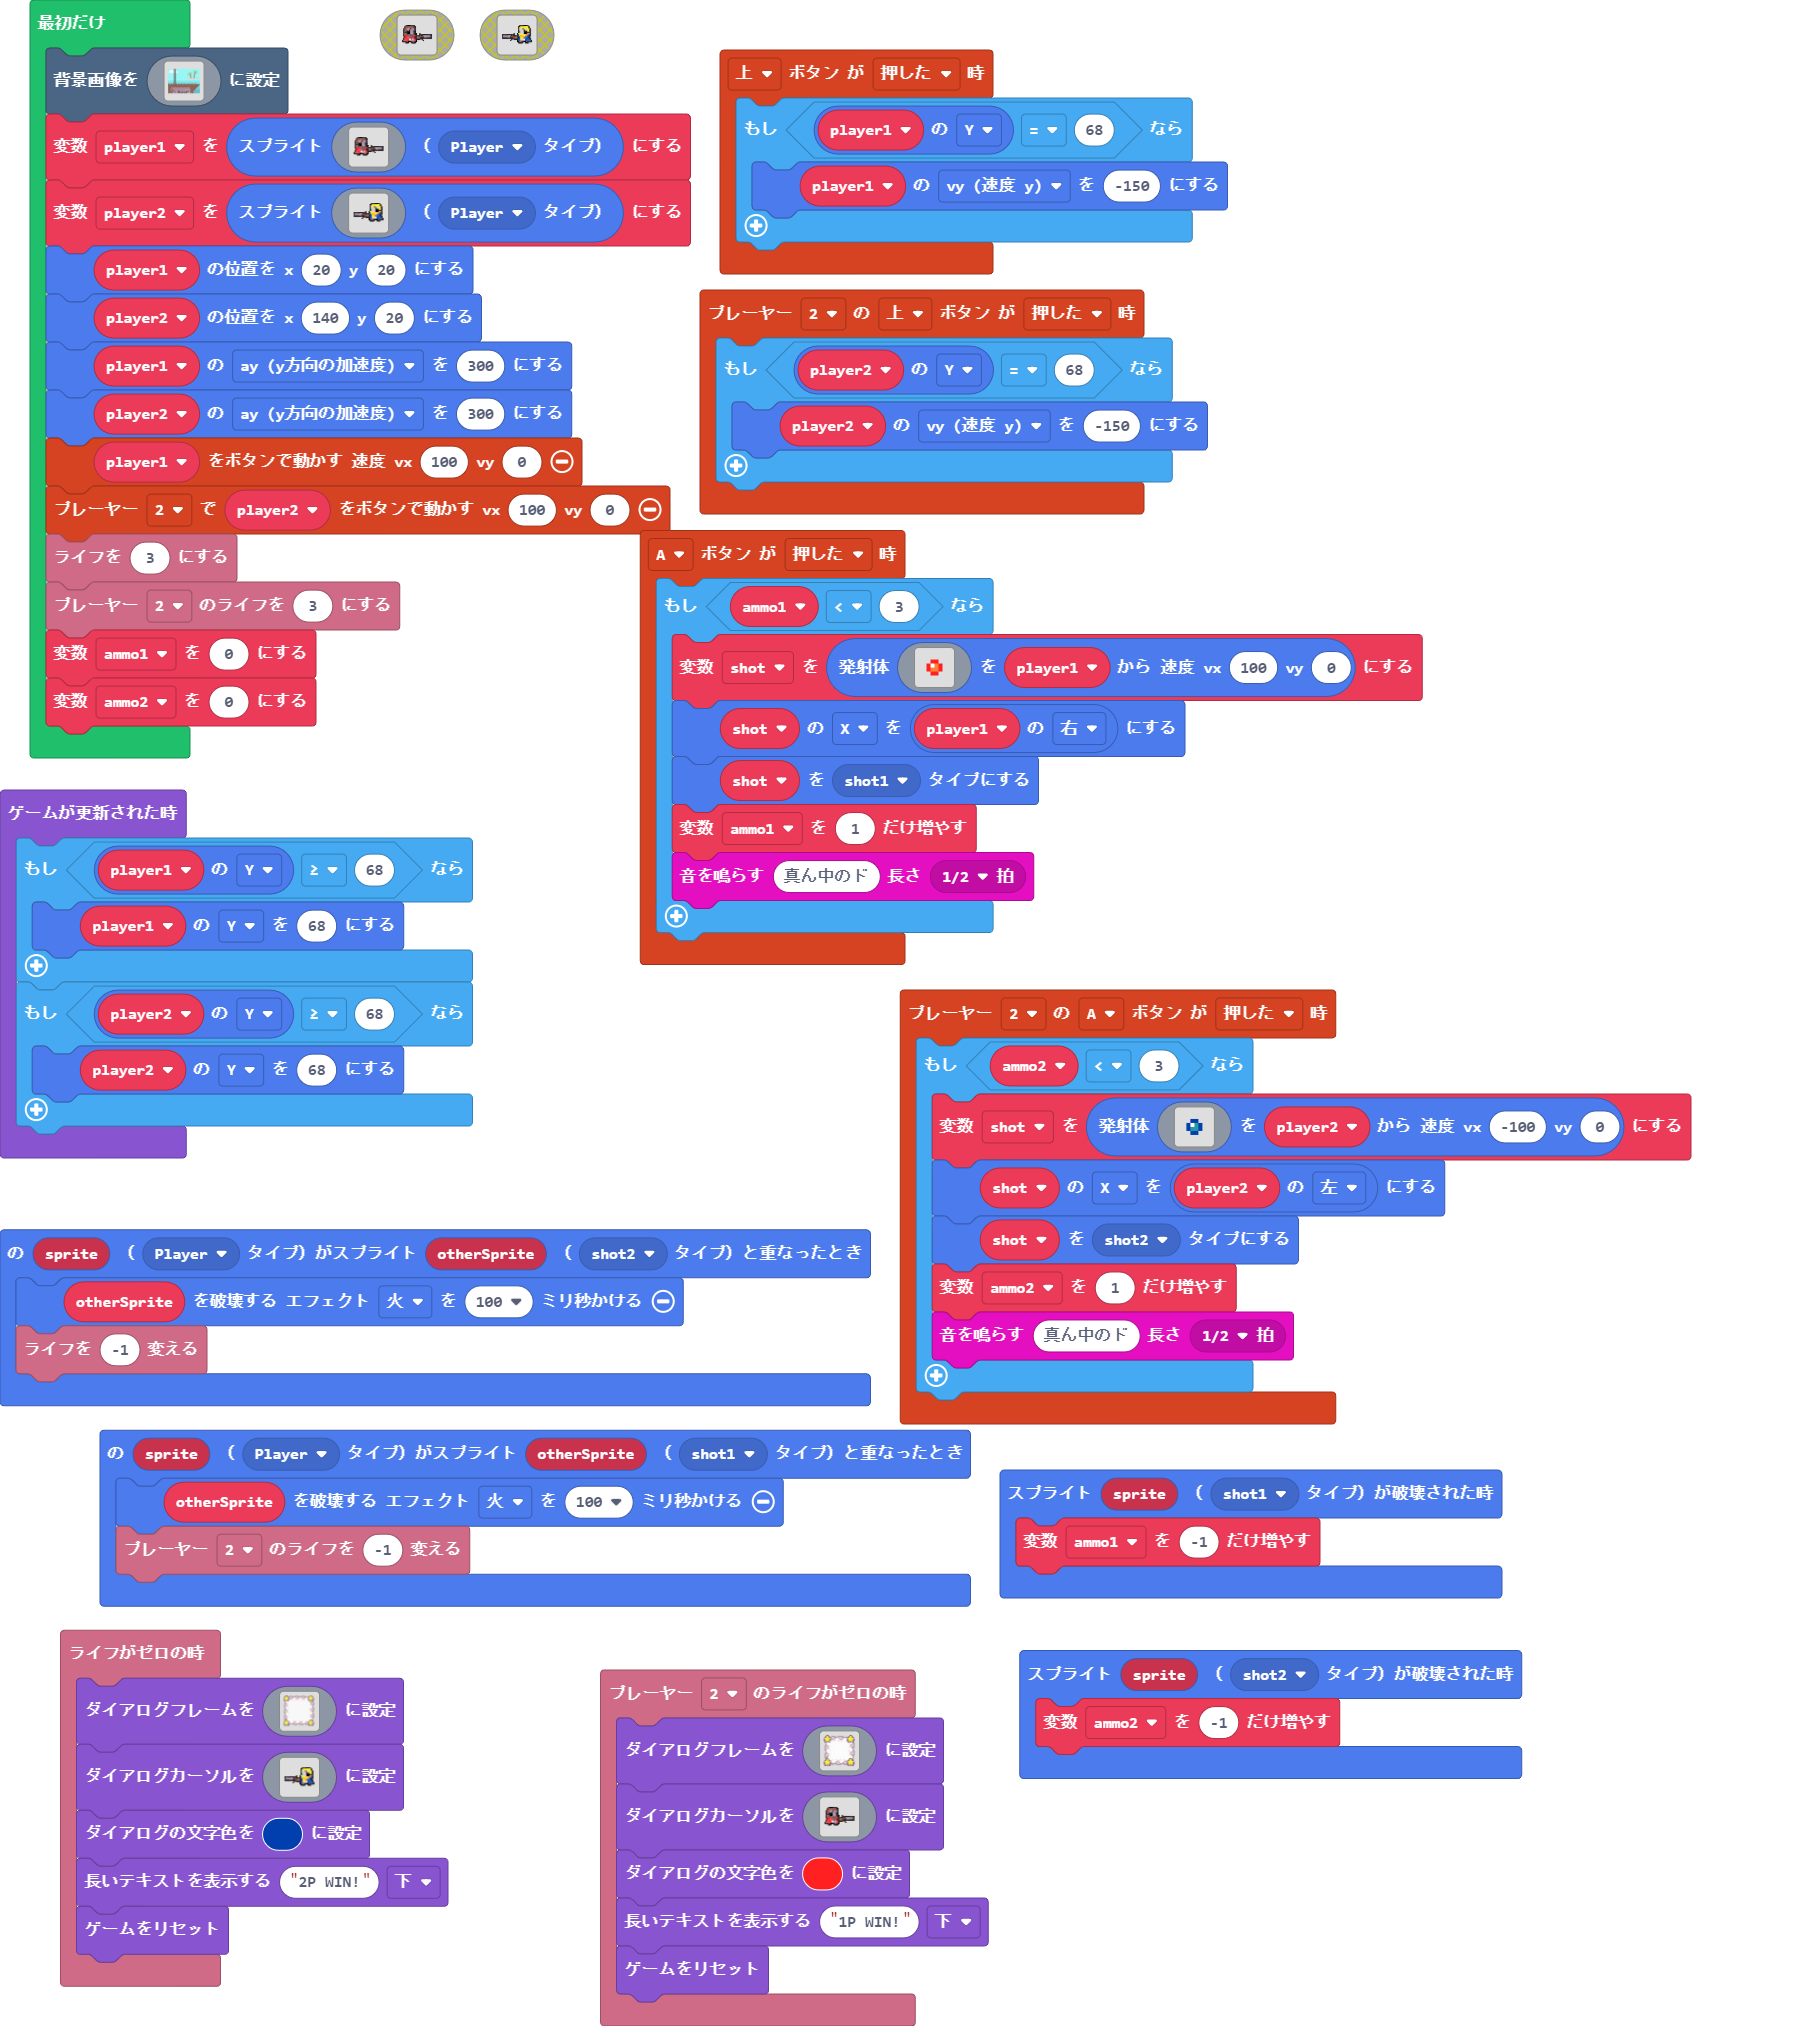
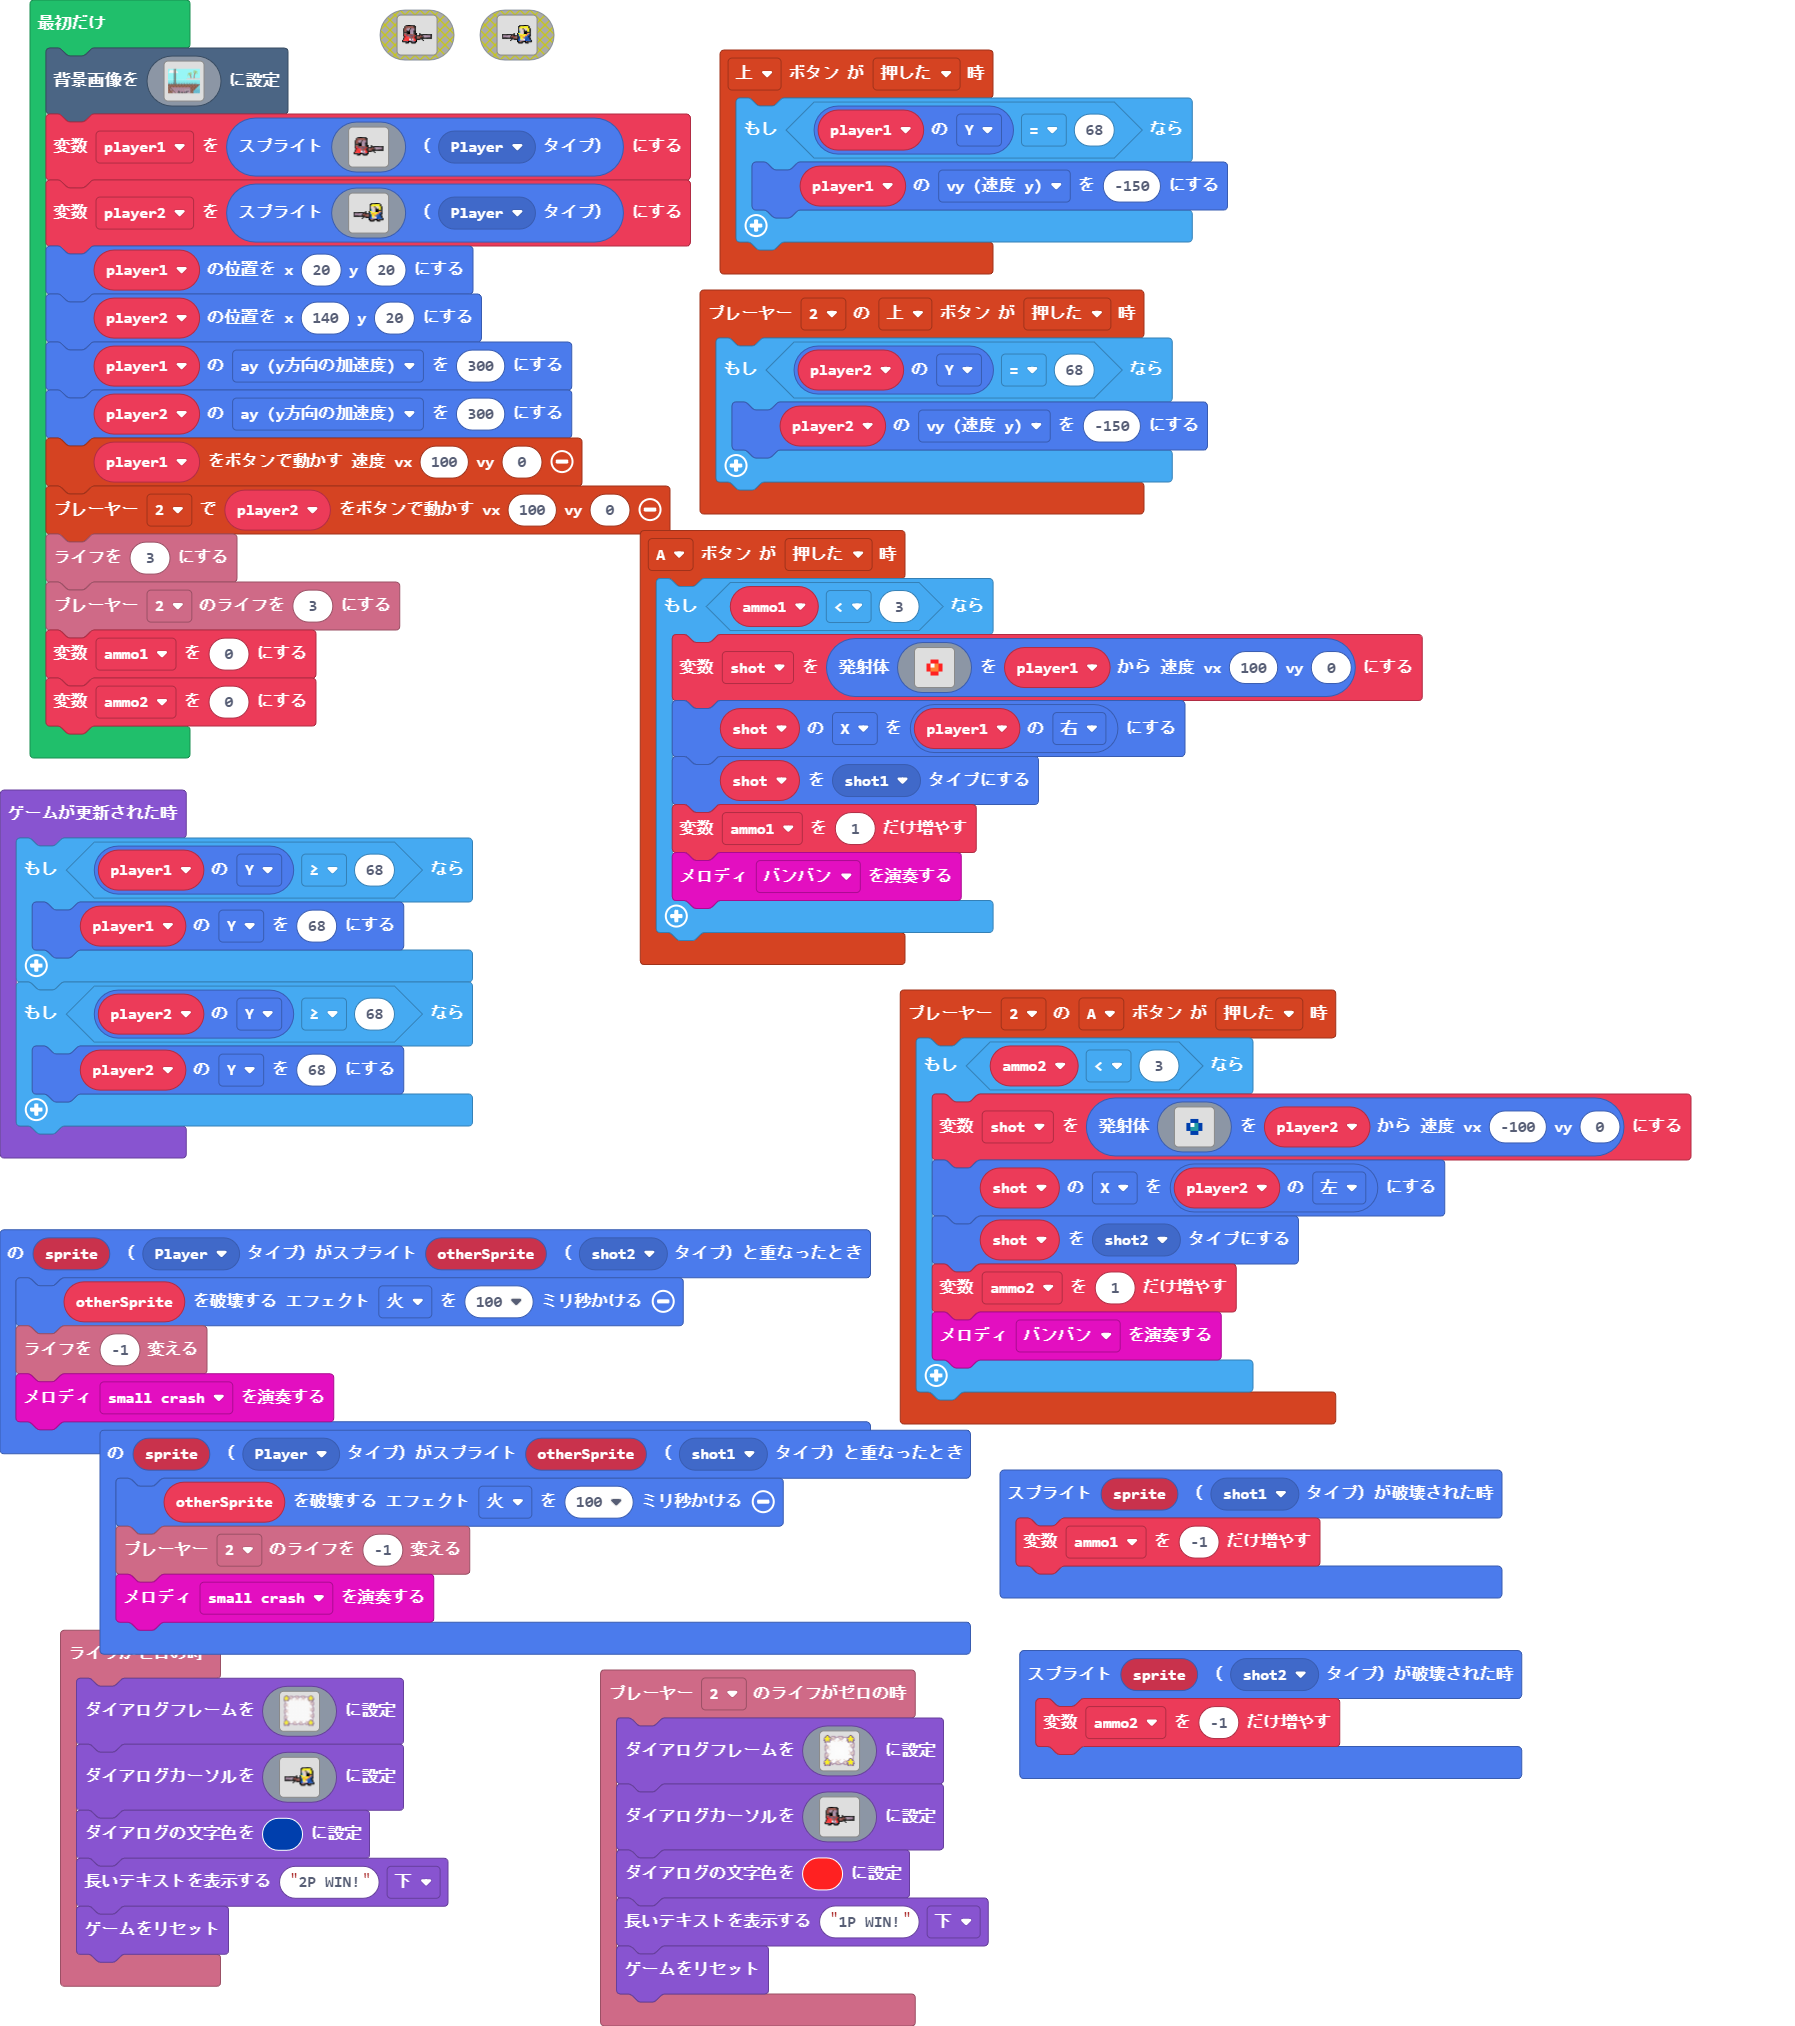
改造完了！

diff --git a/main.ts b/main.ts
@@ -17,12 +17,13 @@ controller.player2.onButtonEvent(ControllerButton.A, ControllerButtonEvent.Press
         shot.x = player2.left
         shot.setKind(SpriteKind.shot2)
         ammo2 += 1
-        music.playTone(262, music.beat(BeatFraction.Half))
+        music.pewPew.play()
     }
 })
 sprites.onOverlap(SpriteKind.Player, SpriteKind.shot1, function (sprite, otherSprite) {
     otherSprite.destroy(effects.fire, 100)
     info.player2.changeLifeBy(-1)
+    music.smallCrash.play()
 })
 controller.player2.onButtonEvent(ControllerButton.Up, ControllerButtonEvent.Pressed, function () {
     if (player2.y == 68) {
@@ -32,6 +33,7 @@ controller.player2.onButtonEvent(ControllerButton.Up, ControllerButtonEvent.Pres
 sprites.onOverlap(SpriteKind.Player, SpriteKind.shot2, function (sprite, otherSprite) {
     otherSprite.destroy(effects.fire, 100)
     info.changeLifeBy(-1)
+    music.smallCrash.play()
 })
 info.onLifeZero(function () {
     game.setDialogFrame(img`
@@ -184,7 +186,7 @@ controller.A.onEvent(ControllerButtonEvent.Pressed, function () {
         shot.x = player1.right
         shot.setKind(SpriteKind.shot1)
         ammo1 += 1
-        music.playTone(262, music.beat(BeatFraction.Half))
+        music.pewPew.play()
     }
 })
 let shot: Sprite = null
